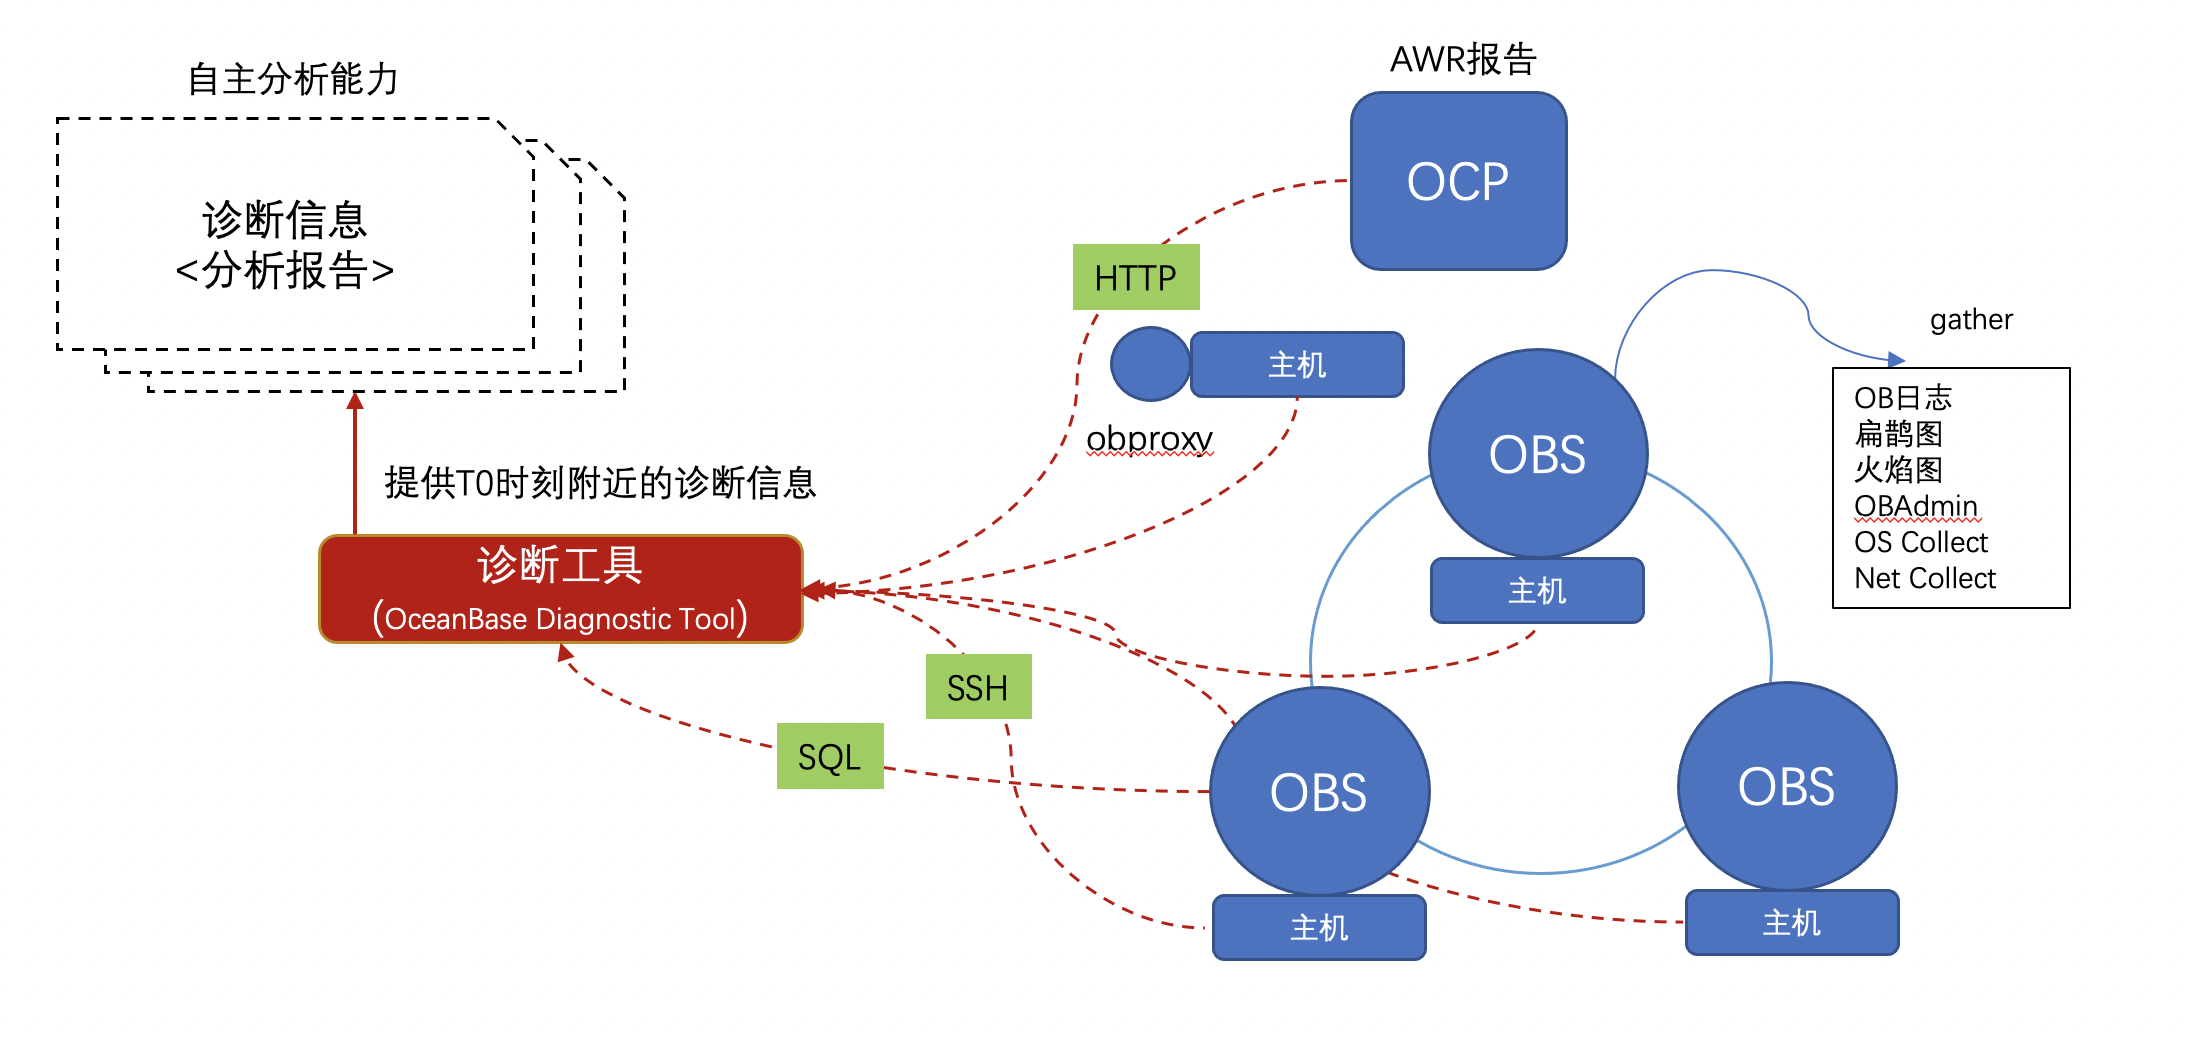
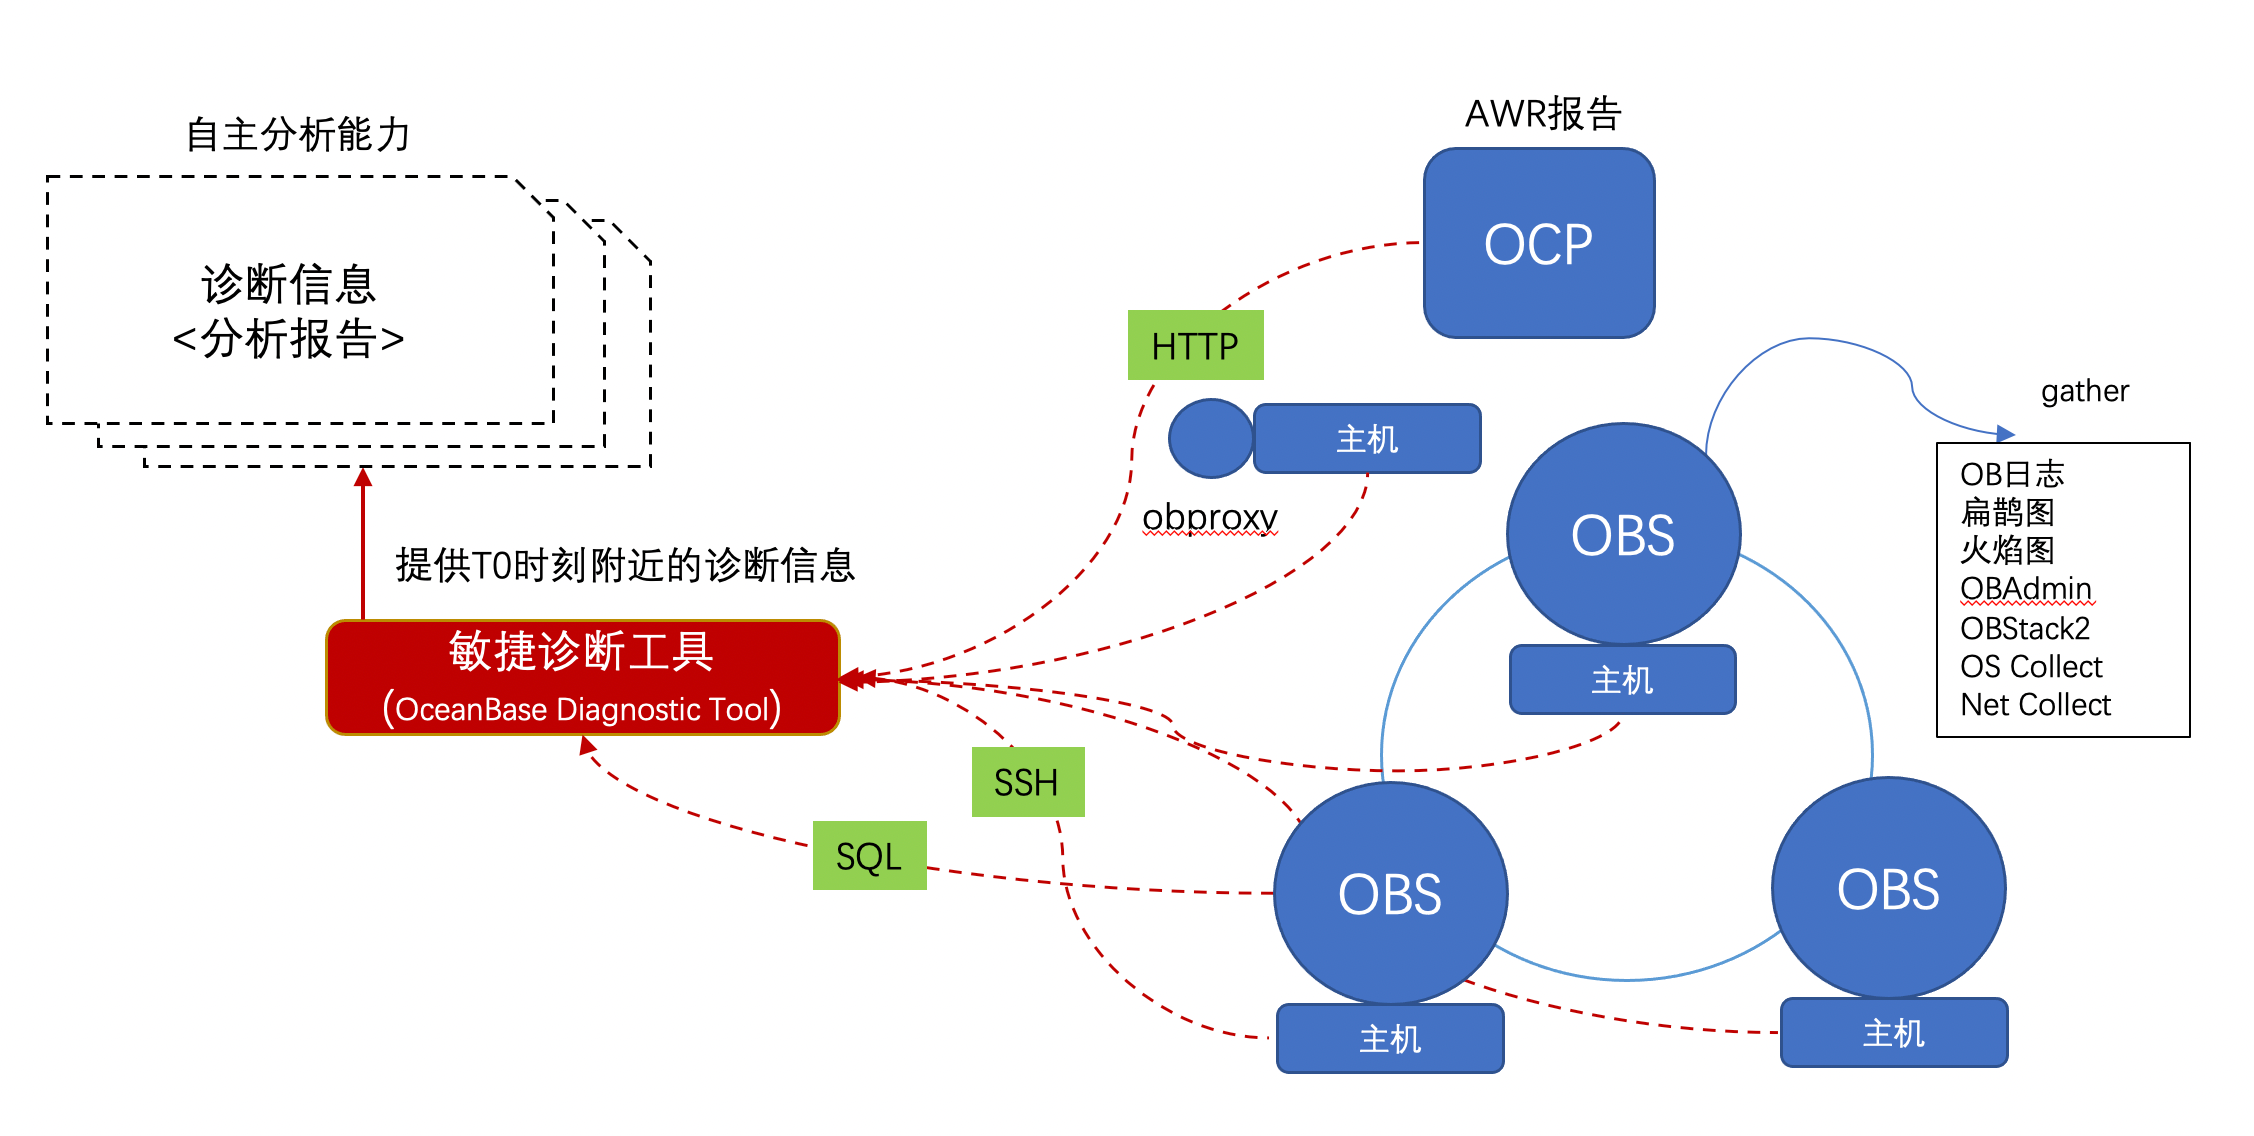
update sysbench_free_test_network_speed.yaml fix some bugs

diff --git a/handler/checker/step/ssh.py b/handler/checker/step/ssh.py
@@ -34,8 +34,8 @@ class SshHandler:
                                         self.node["port"],
                                         self.node["private_key"])
         except Exception as e:
-            logger.error("SshHandler init fail Exception : {0} .".format(e))
-            raise Exception("SshHandler init fail Exception : {0} .".format(e))
+            logger.error("SshHandler init fail. Please check the NODES conf. node: {0}. Exception : {1} .".format(node,e))
+            raise Exception("SshHandler init fail. Please check the NODES conf node: {0}  Exception : {1} .".format(node,e))
         self.task_variable_dict = task_variable_dict
         self.parameter = []
         self.report = TaskReport
@@ -49,15 +49,20 @@ class SshHandler:
             ssh_report_value = self.ssh_helper.ssh_exec_cmd(ssh_cmd)
             if ssh_report_value == None:
                 ssh_report_value = ""
-            logger.info("ssh result:{0}".format(convert_to_number(ssh_report_value[:-1])))
+            if len(ssh_report_value)>0:
+                if ssh_report_value[-1]=="\n":
+                    ssh_report_value=ssh_report_value[:-1]
+            logger.info("ssh result:{0}".format(convert_to_number(ssh_report_value)))
             if "result" in self.step and "set_value" in self.step["result"]:
                 logger.debug("ssh result set {0}".format(self.step["result"]["set_value"],
-                                                         convert_to_number(ssh_report_value[:-1])))
-                self.task_variable_dict[self.step["result"]["set_value"]] = convert_to_number(ssh_report_value[:-1])
+                                                         convert_to_number(ssh_report_value)))
+                self.task_variable_dict[self.step["result"]["set_value"]] = convert_to_number(ssh_report_value)
         except Exception as e:
             logger.error("ssh execute Exception:{0}".format(e.msg))
             raise StepExecuteFailException(e)
-        logger.info("step SshHandler ssh_report_value:{0}".format(ssh_report_value[:-1]))
+        finally:
+            self.ssh_helper.ssh_close()
+        logger.info("step SshHandler ssh_report_value:{0}".format(ssh_report_value))
 
     def update_step_variable_dict(self):
         return self.task_variable_dict

diff --git a/handler/checker/check_report.py b/handler/checker/check_report.py
@@ -79,7 +79,9 @@ class CheckReport:
     def export_report_xml(self):
         allMap = self.report_tobeMap()
         with open(self.report_path + ".xml", 'w', encoding="utf8") as f:
-            json_str = json.dumps(allMap)
+            allreport = {}
+            allreport["report"] = allMap
+            json_str = json.dumps(allreport)
             xml_str = xmltodict.unparse(json.loads(json_str))
             f.write(xml_str)
             f.close()
@@ -93,7 +95,11 @@ class CheckReport:
         allMap = self.report_tobeMap()
         logger.debug("export_report_json allMap: {0}".format(allMap))
         with open(self.report_path + ".json", 'w', encoding="utf8") as f:
-            json.dump(allMap, f, ensure_ascii=False)
+            # for python2 and python3
+            try:
+                json.dump(allMap, f, ensure_ascii=False)
+            except:
+                f.write(unicode(json.dumps(allMap, ensure_ascii=False)))
 
     def report_tobeMap(self):
         failMap = {}

diff --git a/ocp/config_helper.py b/ocp/config_helper.py
@@ -122,7 +122,7 @@ class ConfigHelper(object):
         if len(res_attributes_json) == 0:
             raise Exception("Failed to get attributes_json the node from ocp metadb, "
                             "please check whether the cluster_name and cluster_id correct!!!")
-        attributes_json = res_attributes_json[0]
+        attributes_json = res_attributes_json[0][0]
         if "InstallPath" not in json.loads(attributes_json):
             raise Exception("Failed to get InstallPath the node from ocp metadb, "
                             "please check whether the cluster_name and cluster_id correct!!!")
@@ -198,5 +198,3 @@ class ConfigHelper(object):
         backup_config_path = os.path.join(backup_config_dir, filename)
         mkdir_if_not_exist(backup_config_dir)
         write_yaml_data(config, backup_config_path)
-
-

diff --git a/handler/checker/step/sql.py b/handler/checker/step/sql.py
@@ -36,8 +36,8 @@ class StepSQLHandler:
                                         password=ob_cluster["password"],
                                         timeout=100)
         except Exception as e:
-            logger.error("StepSQLHandler init fail Exception : {0} .".format(e))
-            raise Exception("StepSQLHandler init fail Exception : {0} .".format(e))
+            logger.error("StepSQLHandler init fail. Please check the OBCLUSTER conf. OBCLUSTER: {0} Exception : {1} .".format(ob_cluster,e))
+            raise Exception("StepSQLHandler init fail. Please check the OBCLUSTER conf. OBCLUSTER: {0} Exception : {1} .".format(ob_cluster,e))
         self.task_variable_dict = task_variable_dict
         self.enable_dump_db = False
         self.trace_id = None

diff --git a/handler/checker/step/get_system_parameter.py b/handler/checker/step/get_system_parameter.py
@@ -39,8 +39,8 @@ class GetSystemParameterHandler:
                                         self.node["port"],
                                         self.node["private_key"])
         except Exception as e:
-            logger.error("GetSystemParameterHandler ssh init fail Exception : {0} .".format(e))
-            raise Exception("GetSystemParameterHandler ssh init fail Exception : {0} .".format(e))
+            logger.error("GetSystemParameterHandler ssh init fail  . Please check the NODES conf Exception : {0} .".format(e))
+            raise Exception("GetSystemParameterHandler ssh init fail . Please check the NODES conf  Exception : {0} .".format(e))
 
         # step report
         self.parameter = []

diff --git a/README.md b/README.md
@@ -1,6 +1,6 @@
 
 # Oceanbase Diagnostic Tool
-OceanBase诊断工具(OceanBase Diagnostic Tool) 是 OceanBase 的黑屏诊断工具。目前包含了对于OceanBase日志、SQL Audit以及OceanBase进程堆栈等信息进行的扫描、收集、分析，可以在OceanBase集群不同的部署模式下（OCP，OBD或用户根据文档手工部署）实现一键执行。
+OceanBase敏捷诊断工具(OceanBase Diagnostic Tool) 是 OceanBase 的黑屏诊断工具。目前包含了对于OceanBase日志、SQL Audit以及OceanBase进程堆栈等信息进行的扫描、收集、分析，可以在OceanBase集群不同的部署模式下（OCP，OBD或用户根据文档手工部署）实现一键执行。
 
 ![01](images/structure.png)
 
